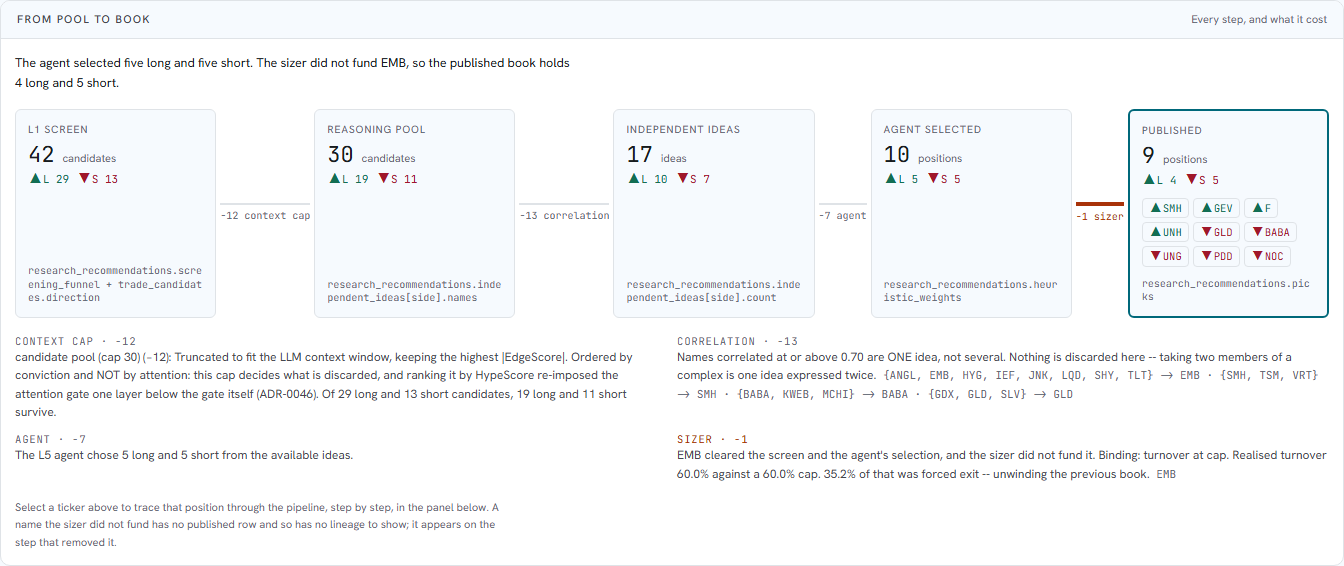
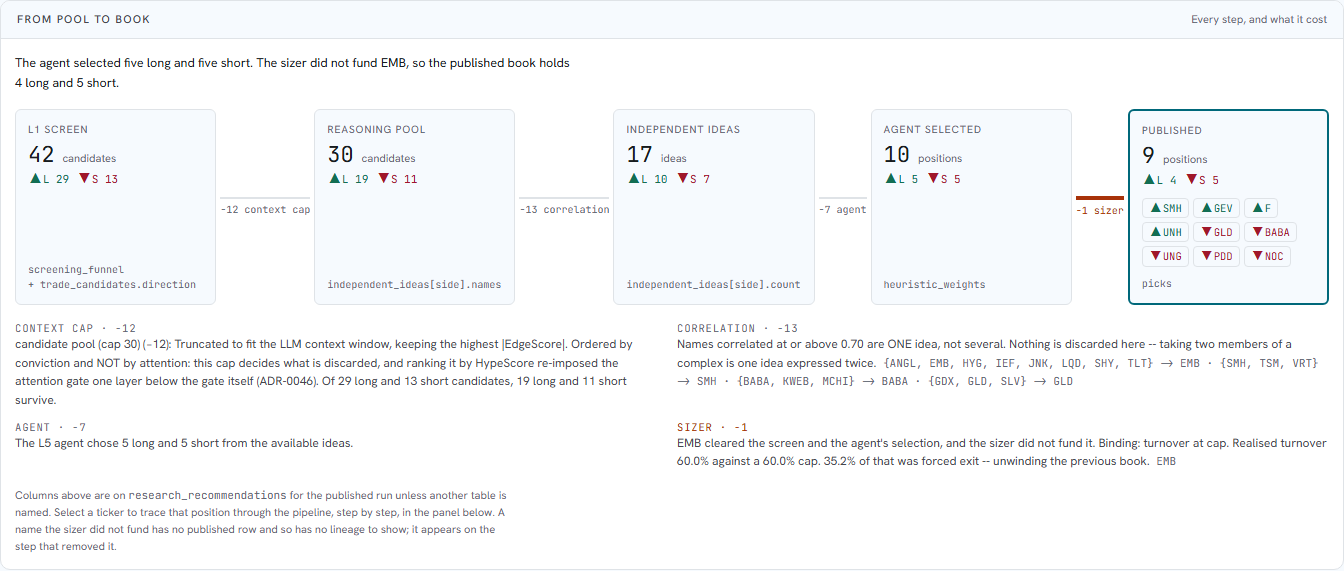
fix(book): a citation a reader has to reassemble is not a citation
`break-all` on the funnel's source lines split every one of them mid-word at a
~200px column:

    research_recommendations.scree     research_recommendations.pick
    ning_funnel                        s
    + trade_candidate                  research_recommendations.heuri
    s.direction                        stic_weights

Goal 1 asks that a reader can follow any figure to its origin without asking.
A column name broken across a line boundary at an arbitrary character has to be
reassembled before it can be looked up, which is a smaller version of the same
failure.

The five cards all read the same table, so the prefix was 25 characters of
identical noise repeated five times inside the narrowest column on the page. The
table is now stated ONCE under the chain -- "Columns above are on
research_recommendations for the published run unless another table is named" --
and each card carries the part that differs. A source on a DIFFERENT table keeps
its full name, so `trade_candidates.direction` still says so on its own line and
is the only place a table appears in the row.

Same claim, split across two lines instead of repeated five times, and every
column now fits its column.

1088 frontend tests, tsc clean. Verified at 1440 under both lenses and at 430,
where the chain still stacks in pipeline order with no horizontal overflow.

diff --git a/frontend/components/book/BookFunnel.tsx b/frontend/components/book/BookFunnel.tsx
@@ -43,6 +43,10 @@ import {
   type FunnelNode,
 } from "@/lib/book/bookFunnel";
 
+/** The table every node but one reads from. Stated once under the chain so each
+ *  card can show only the column, which is the part that differs. */
+const SHARED_TABLE = "research_recommendations";
+
 /** Long/short split as glyph + letter + count. Colour is the third signal. */
 function Split({ long, short }: { long: number | null; short: number | null }) {
   if (long === null && short === null) return null;
@@ -103,9 +107,20 @@ function Node({
         </>
       )}
       {children}
-      {/* Goal 1: the figure names the column it came from, on the same card. */}
-      <div className="text-[10px] text-text-tertiary num mt-auto pt-1 break-all">
-        {node.source}
+      {/* Goal 1: the figure names the column it came from, on the same card.
+          `break-all` split every one of these mid-word at a ~200px column
+          (`research_recommendations.scree | ning_funnel`, `pick | s`), which is
+          a citation a reader has to reassemble before they can check it. The
+          shared table prefix is stated ONCE under the chain instead, so each
+          card carries the part that differs; a source on another table keeps its
+          full name and is the only place a table appears up here. */}
+      <div className="text-[10px] text-text-tertiary num mt-auto pt-1 leading-[1.45]">
+        {node.source.split(" + ").map((s, i) => (
+          <span key={s} className="block">
+            {i > 0 ? "+ " : ""}
+            {s.startsWith(SHARED_TABLE + ".") ? s.slice(SHARED_TABLE.length + 1) : s}
+          </span>
+        ))}
       </div>
     </div>
   );
@@ -262,13 +277,22 @@ export default function BookFunnel({
           ))}
         </dl>
 
-        {published && (
-          <p className="m-0 mt-4 text-[11px] text-text-tertiary leading-[1.55] max-w-[80ch]">
-            Select a ticker above to trace that position through the pipeline, step by
-            step, in the panel below. A name the sizer did not fund has no published
-            row and so has no lineage to show; it appears on the step that removed it.
-          </p>
-        )}
+        {/* The table the columns above belong to. Goal 1 asks that a reader can
+            follow any figure to its origin without asking; the cards carry the
+            column and this carries the table, which is the same claim split
+            across two lines rather than repeated five times. */}
+        <p className="m-0 mt-4 text-[11px] text-text-tertiary leading-[1.55] max-w-[80ch]">
+          Columns above are on <span className="num">{SHARED_TABLE}</span> for the
+          published run unless another table is named.
+          {published && (
+            <>
+              {" "}
+              Select a ticker to trace that position through the pipeline, step by step,
+              in the panel below. A name the sizer did not fund has no published row and
+              so has no lineage to show; it appears on the step that removed it.
+            </>
+          )}
+        </p>
       </div>
     </section>
   );
